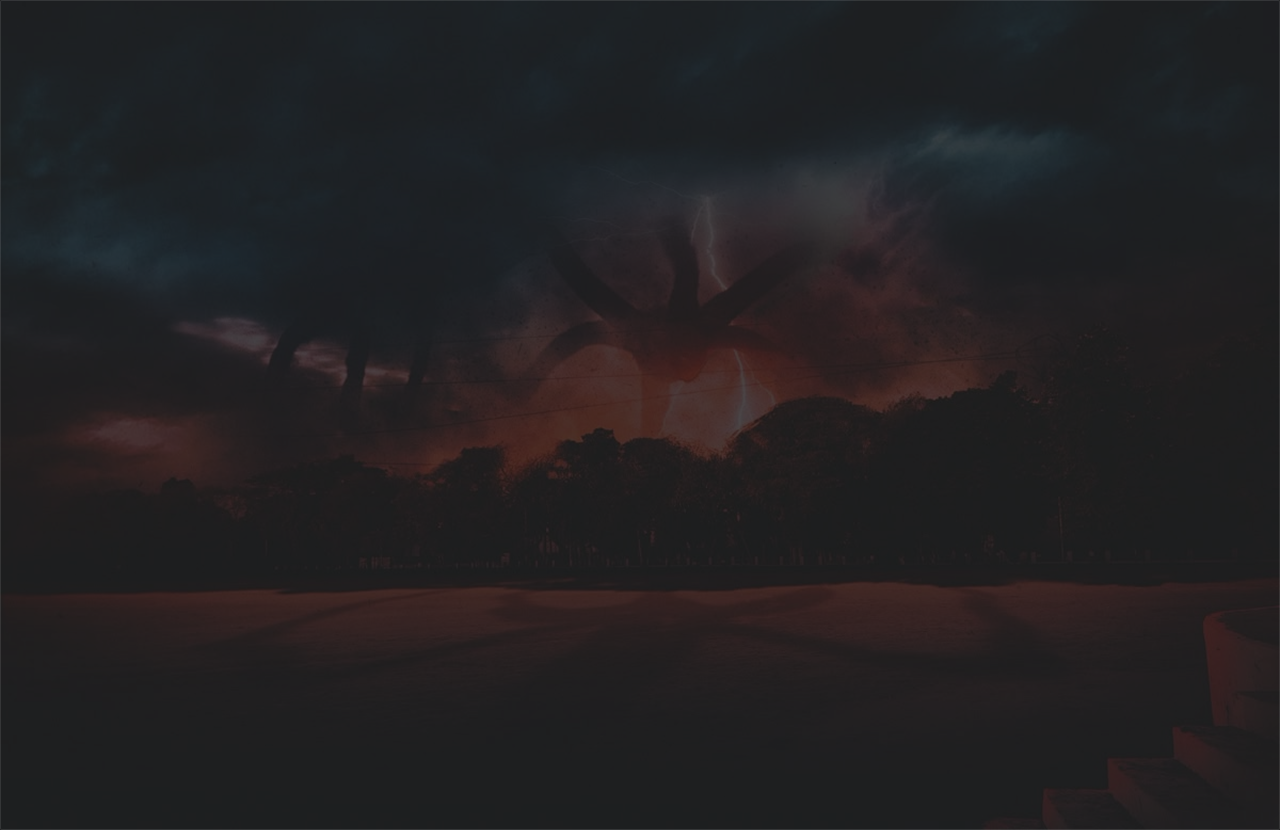
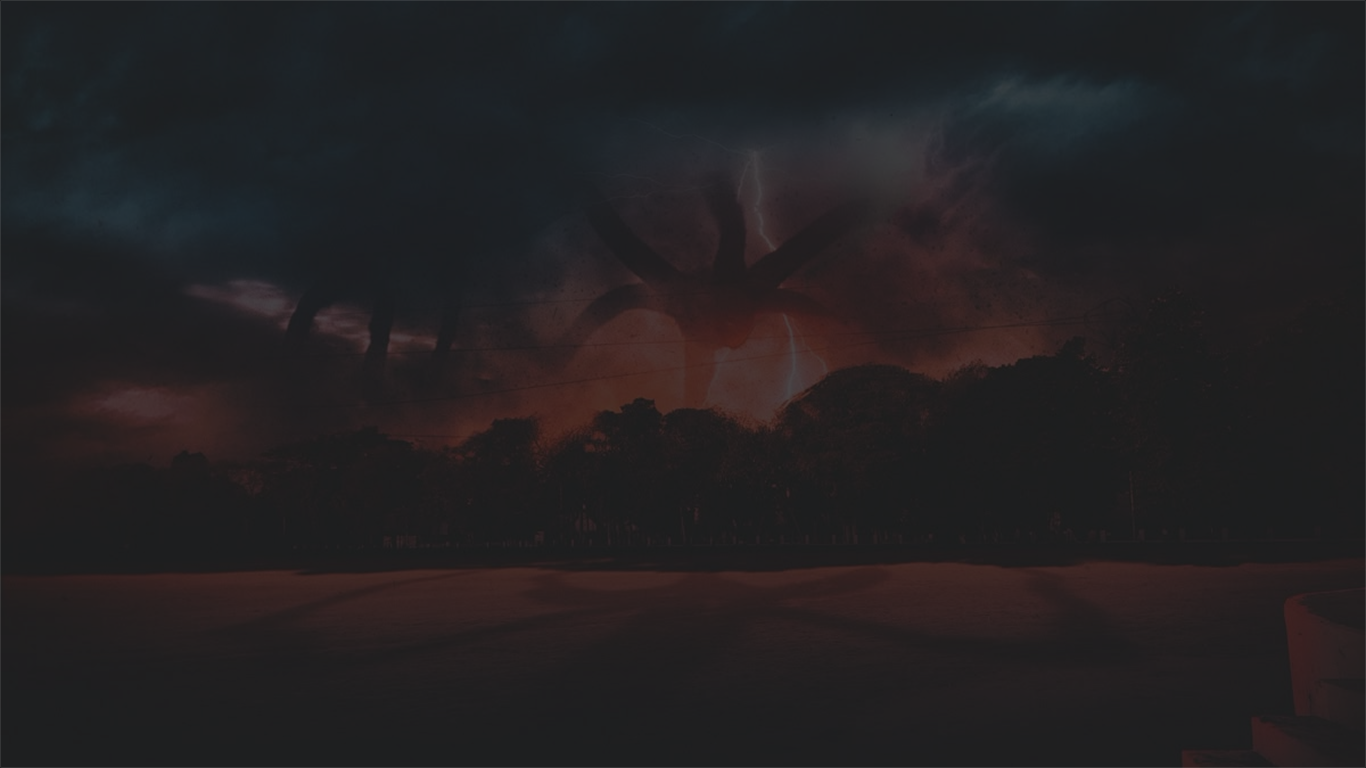
feat: proporção e cor título

diff --git a/public/home.css b/public/home.css
@@ -1,3 +1,11 @@
 * {
-    background-image: url('../img/quizST.png');
+    background-image: url('../public/img/quizST.png');
+    margin: 0;
+    border: 0;
+    padding: 0;
+}
+
+h1 {
+    font-family: Benguiat Bold Condensed;
+    color: #FFA586;
 }

diff --git a/public/home.html b/public/home.html
@@ -9,7 +9,10 @@
 </head>
 <body>
     <header>
-        <h1>Quiz de Stranger Things</h1>
+        
     </header>
+    <main>
+        <h1>Quiz de Stranger Things</h1>
+    </main>
 </body> 
 </html>
